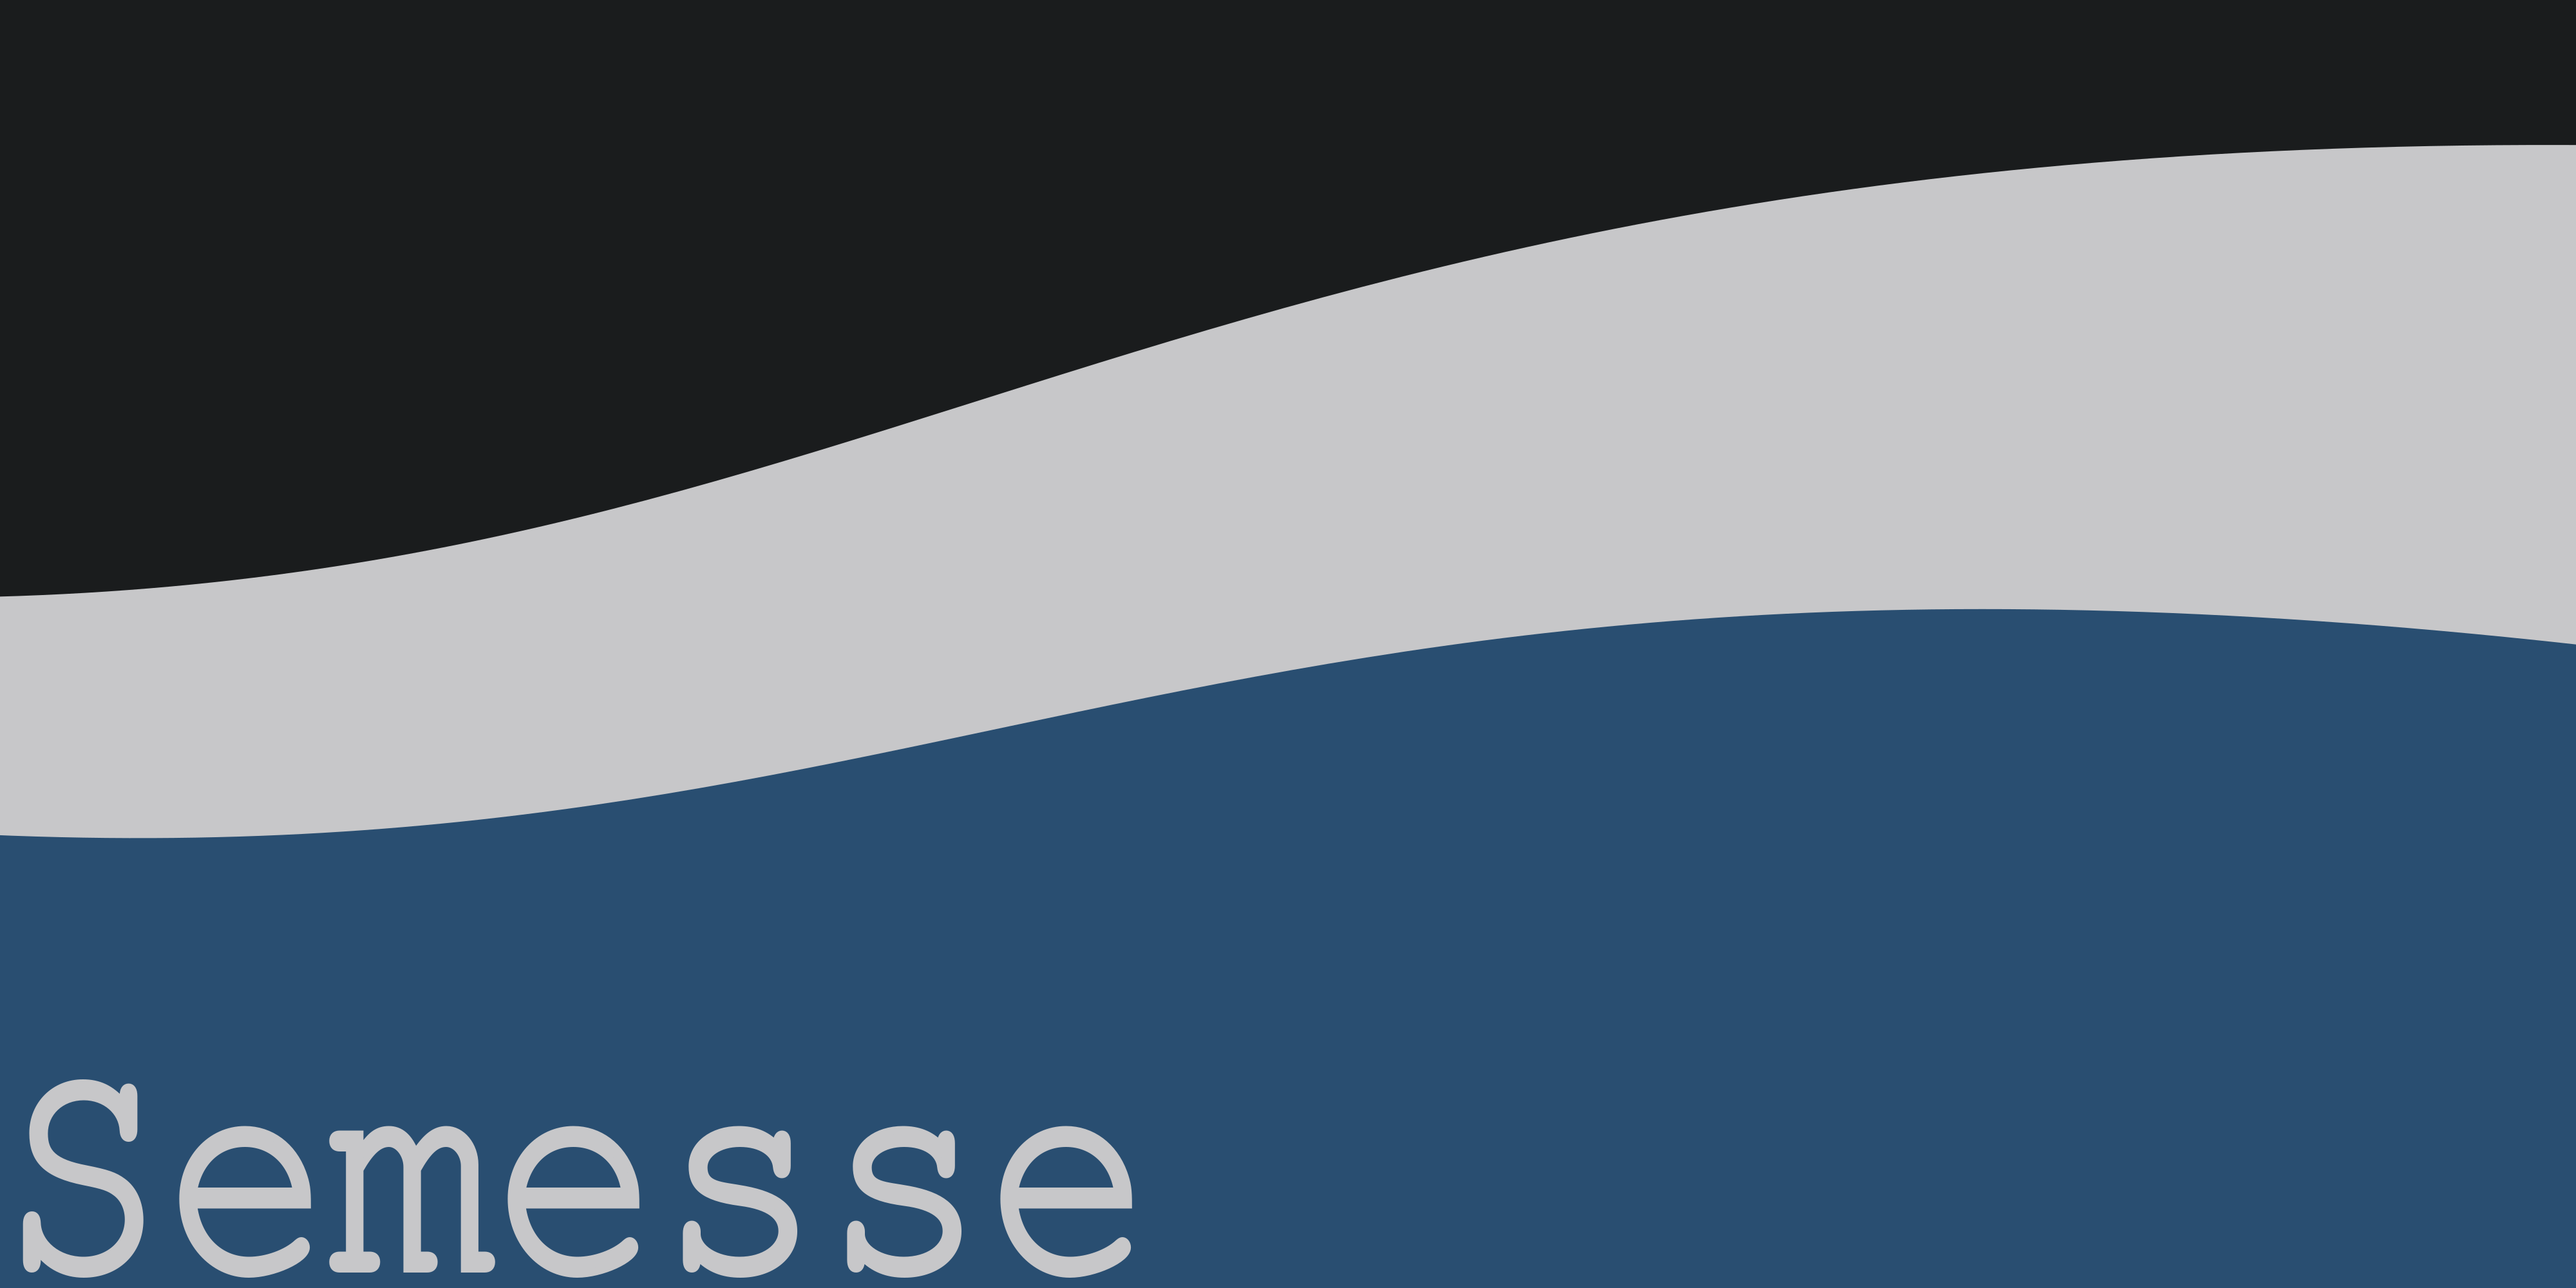
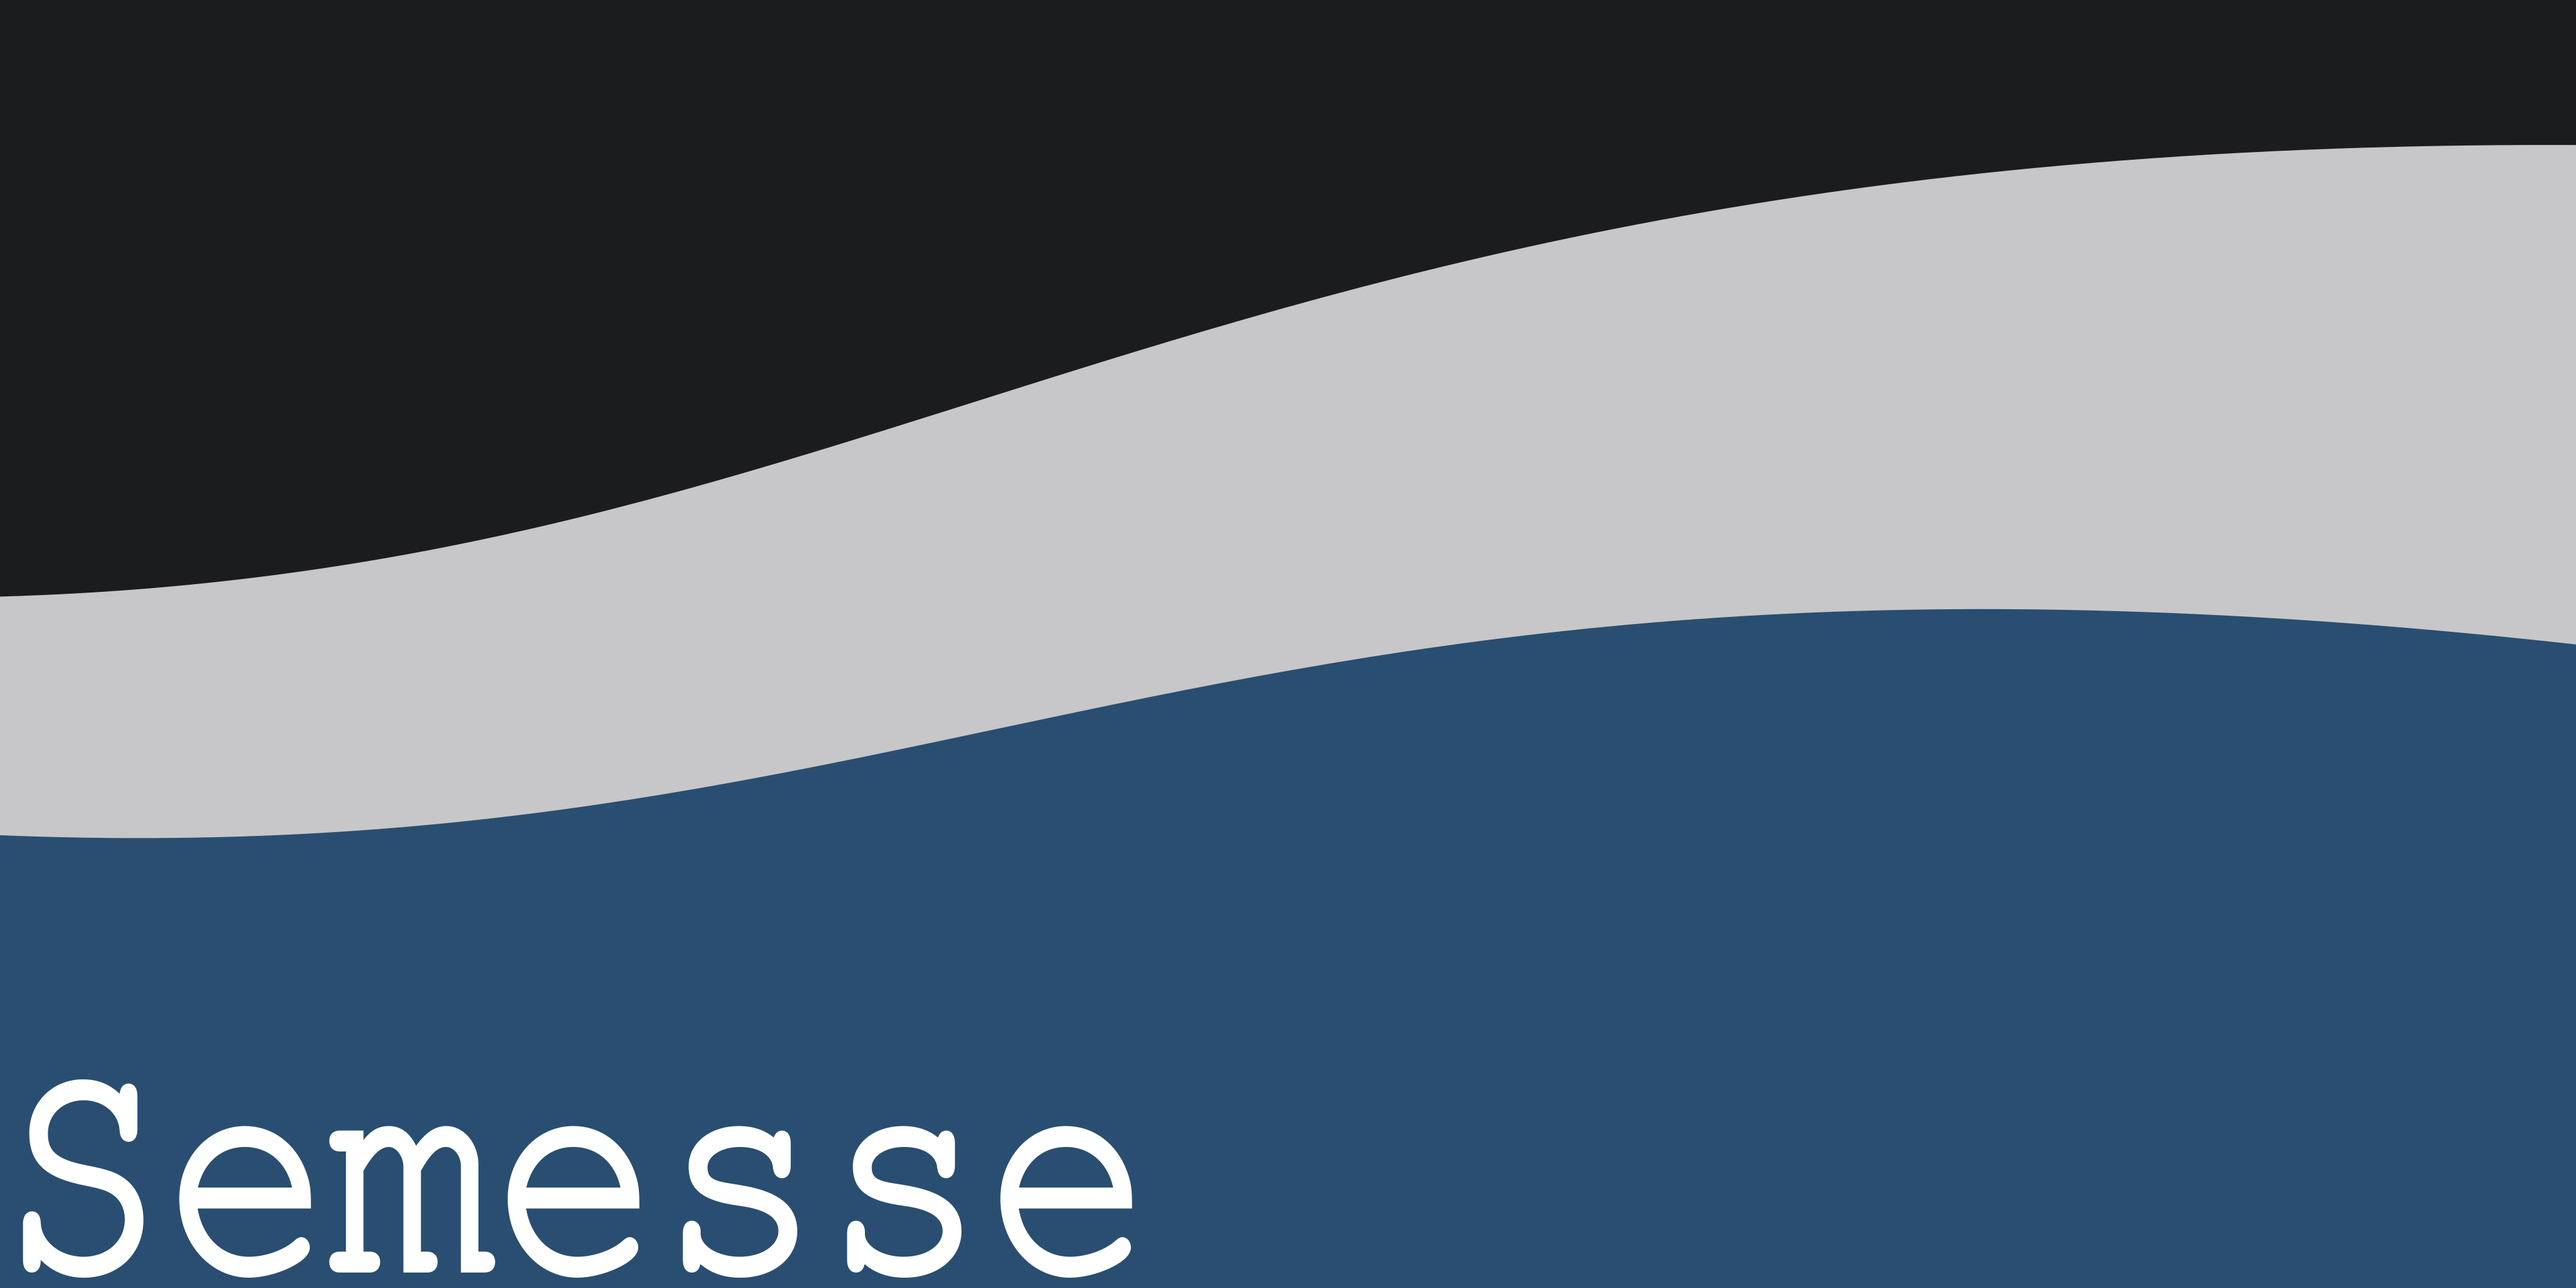
Improve workflow

Changed region(s): [[0.0, 0.837, 0.4375, 0.992]]

diff --git a/src/semesse1/semesse1.js b/src/semesse1/semesse1.js
@@ -10,8 +10,8 @@ let OUTPUT_TEMPLATE = `<svg viewBox="0 0 2000 1000" fill="none" xmlns="http://ww
     <path d="M -100 1110 l 33 -465 c 837 53 994 -285 2172 -132 l 173 1030 z" fill="#294e71" />
 
     <text font-family="TeX Gyre Cursor" font-weight="400" font-size="250" x="1" y="985"
-        fill="#c7c7c9" stroke="#c7c7c9" stroke-width="6" transform="scale(0.85,1)">Semesse</text>
+        fill="white" stroke="white" stroke-width="6" transform="scale(0.85,1)">Semesse</text>
 </svg>
 `;
 
-console.log(OUTPUT_TEMPLATE)
+console.log(OUTPUT_TEMPLATE);

diff --git a/src/neruthes1/frame/neruthes1.frame.tex b/src/neruthes1/frame/neruthes1.frame.tex
@@ -3,9 +3,9 @@
 \begin{document}
 \doctitle{Neruthes}
 
-\useimg{20mm}{src/neruthes1/frame/neruthes1.15x20.png}\par
+\useimg{20mm}{src/neruthes1/frame/neruthes1.15x20.png}
 \useimg{30mm}{src/neruthes1/frame/neruthes1.20x30.png}\par
-\useimg{35mm}{src/neruthes1/frame/neruthes1.25x35.png}\par
+\useimg{35mm}{src/neruthes1/frame/neruthes1.25x35.png}
 \useimg{40mm}{src/neruthes1/frame/neruthes1.30x40.png}\par
 \useimg{30mm}{src/neruthes1/frame/neruthes1.out_rz.png}\par
 \end{document}

diff --git a/src/semesse1/frame/semesse1.frame.tex b/src/semesse1/frame/semesse1.frame.tex
@@ -3,9 +3,9 @@
 \begin{document}
 \doctitle{Semesse}
 
-\useimg{20mm}{src/semesse1/frame/semesse1.15x20.png}\par
+\useimg{20mm}{src/semesse1/frame/semesse1.15x20.png}
 \useimg{30mm}{src/semesse1/frame/semesse1.20x30.png}\par
-\useimg{35mm}{src/semesse1/frame/semesse1.25x35.png}\par
+\useimg{35mm}{src/semesse1/frame/semesse1.25x35.png}
 \useimg{40mm}{src/semesse1/frame/semesse1.30x40.png}\par
 \useimg{30mm}{src/semesse1/frame/semesse1.out_rz.png}\par
 \end{document}
